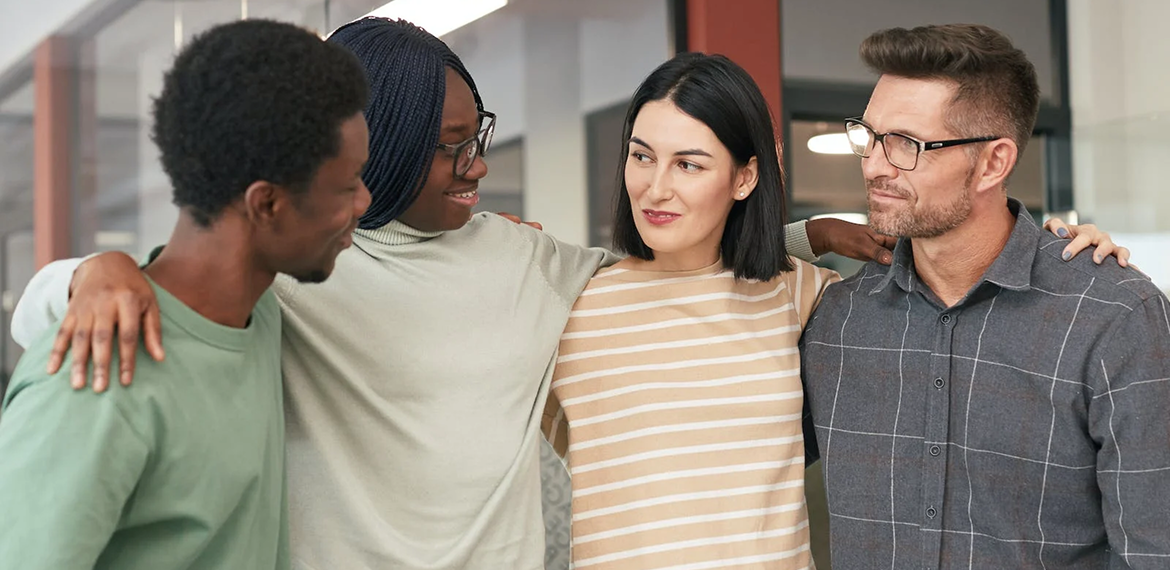
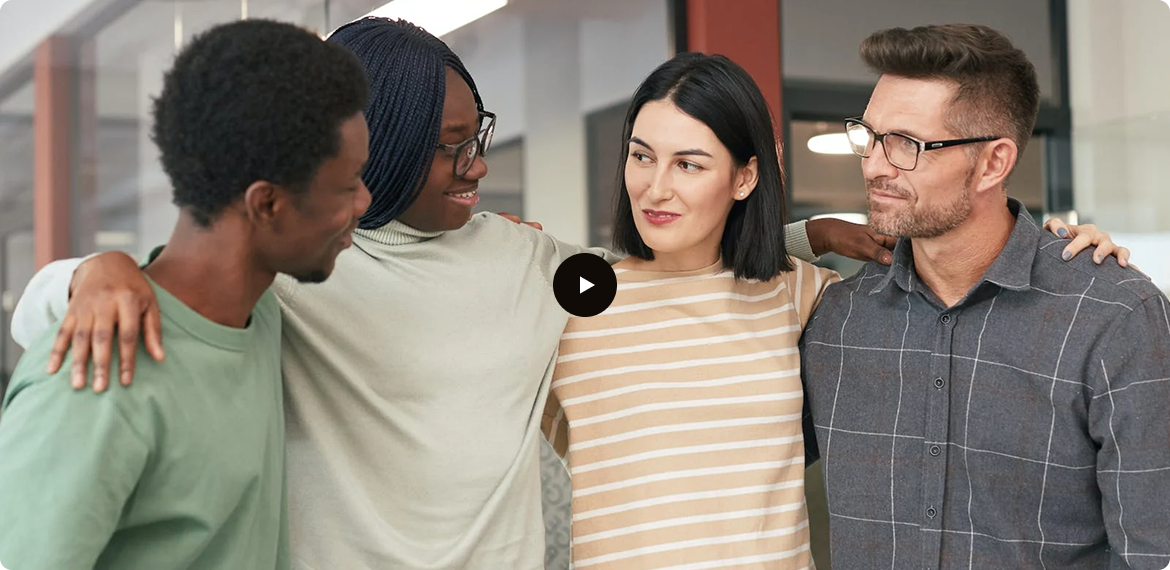
Add New Community Section and Video Section; Update Hero Section Layout

diff --git a/src/sections/About/VideoSection.jsx b/src/sections/About/VideoSection.jsx
@@ -1,0 +1,43 @@
+import React from "react";
+
+const VideoSection = () => {
+  return (
+    <div className="container mx-auto px-4 py-8 max-w-7xl md:px-8">
+      <div className="">
+        <img
+          src="/image/Video.png"
+          alt=""
+          className="w-fit h-auto bg-cover my-4 md:my-12"
+        />
+        <div className="">
+          <h3 className="text-h5 md:text-h4-r text-black-primary font-bold mt-4 md:max-w-[46rem] leading-snug mb-5">
+            We are the next generation hiring platform helping employees and
+            recruiter teams navigate their work and productivity with us.
+          </h3>
+
+          <div className="flex flex-col md:flex-row md:items-start md:justify-between md:gap-10 gap-5">
+            <p className="text-p2 text-grey-primary md:w-1/2">
+              We provide a platform that streamlines and expedites the job
+              search, offering comprehensive resources, tailored
+              recommendations, and advanced search capabilities. With Career,
+              tech professionals can maximize their chances of finding the
+              perfect job.
+            </p>
+            <p className="text-p2 text-grey-primary md:w-1/2">
+              Career's mission is to revolutionize the job search process for
+              tech professionals by empowering them to discover their ideal job
+              opportunity quickly and effortlessly. We provide a platform that
+              streamlines and expedites the job search, offering comprehensive
+              resources, tailored recommendations, and advanced search
+              capabilities. With Career, tech professionals can maximize their
+              chances of finding the perfect job, enabling them to accelerate
+              their career growth and achieve professional fulfillment.
+            </p>
+          </div>
+        </div>
+      </div>
+    </div>
+  );
+};
+
+export default VideoSection;

diff --git a/src/sections/About/NewCommunity.jsx b/src/sections/About/NewCommunity.jsx
@@ -4,19 +4,19 @@ import CommunityCounter from "../../components/CounterComponents";
 const NewCommunity = () => {
   return (
     <section className="">
-      <div className="container mx-auto max-w-7xl px-4 md:px-0 py-12">
+      <div className="container mx-auto max-w-7xl px-4 md:px-8 py-12">
         <div className="flex flex-col-reverse md:flex-row items-center justify-between gap-4">
-          
           {/* Text Section */}
           <div className="w-full md:w-1/2 text-center md:text-left">
             <h2 className="text-3xl md:text-h2 font-bold mb-4">
               Our community in numbers
             </h2>
             <p className="text-p3 text-grey-primary">
-              We provide a platform that streamlines and expedites the job search,
-              offering comprehensive resources, tailored recommendations, and
-              advanced search capabilities. With Career, tech professionals can
-              maximize their chances of finding the perfect job.
+              We provide a platform that streamlines and expedites the job
+              search, offering comprehensive resources, tailored
+              recommendations, and advanced search capabilities. With Career,
+              tech professionals can maximize their chances of finding the
+              perfect job.
             </p>
             <CommunityCounter />
           </div>
@@ -25,7 +25,7 @@ const NewCommunity = () => {
           <div className="w-full md:w-1/2 flex justify-center">
             <div className="bg-blue-primary rounded-lg w-full max-w-md">
               <img
-                src="/image/comunity/image.png"
+                src="/image/community/image.png"
                 alt="Illustration showing Career community statistics"
                 className="w-full h-auto object-cover"
                 loading="lazy"

diff --git a/src/sections/About/HeroSection.jsx b/src/sections/About/HeroSection.jsx
@@ -4,7 +4,7 @@ const HeroSection = () => {
   return (
     <>
       {/* Hero Container - Matches NewCommunity */}
-      <div className="container max-w-7xl mx-auto px-4 md:px-0 my-14 md:my-20">
+      <div className="container max-w-7xl mx-auto px-4 md:px-8 my-14 md:my-20">
         {/* Heading Section */}
         <div className="flex flex-col items-center text-center">
           <h1 className="text-3xl md:text-h2 font-bold md:max-w-4xl relative">
@@ -43,8 +43,8 @@ const HeroSection = () => {
               Our Mission is to empower every tech professional
             </h2>
             <p className="text-p3 text-grey-primary leading-relaxed">
-              Career's mission is to revolutionize the job search process for tech
-              professionals by empowering them to discover their ideal job
+              Career's mission is to revolutionize the job search process for
+              tech professionals by empowering them to discover their ideal job
               opportunity quickly and effortlessly. We provide a platform that
               streamlines and expedites the job search, offering comprehensive
               resources, tailored recommendations, and advanced search

diff --git a/src/components/CounterComponents.jsx b/src/components/CounterComponents.jsx
@@ -4,15 +4,14 @@ import { newComunitiesCount } from "../constants/index.js";
 
 const CommunityCounter = () => {
   return (
-    <div className="mt-10 grid grid-cols-1 sm:grid-cols-2 md:grid-cols-3 gap-6 text-center">
+    <div className="mt-10 grid grid-cols-1 md:grid-cols-2 gap-6 text-center">
       {newComunitiesCount.map((item, index) => (
-        <div key={index} className="flex flex-col items-center bg-white p-3 rounded-lg">
+        <div
+          key={index}
+          className="flex flex-col items-center bg-white p-3 rounded-lg"
+        >
           <h3 className="text-3xl md:text-4xl font-bold text-black-primary">
-            <CountUp 
-              end={item.title} 
-              duration={2} 
-              separator="," 
-            />
+            <CountUp end={item.title} duration={2} separator="," />
             <span className="text-black-primary">{item.prefix}</span>
           </h3>
           <p className="text-grey-primary mt-2 text-base md:text-lg">

diff --git a/src/pages/AboutPage.jsx b/src/pages/AboutPage.jsx
@@ -1,14 +1,16 @@
-import React from 'react'
-import HeroSection from '../sections/About/HeroSection'
-import NewComunity from '../sections/About/NewComunity'
+import React from "react";
+import HeroSection from "../sections/About/HeroSection";
+import NewCommunity from "../sections/About/NewCommunity";
+import VideoSection from "../sections/About/VideoSection";
 
 const AboutPage = () => {
   return (
     <div>
-      <HeroSection/>
-      <NewComunity/>
+      <HeroSection />
+      <NewCommunity />
+      <VideoSection />
     </div>
-  )
-}
+  );
+};
 
-export default AboutPage
+export default AboutPage;
